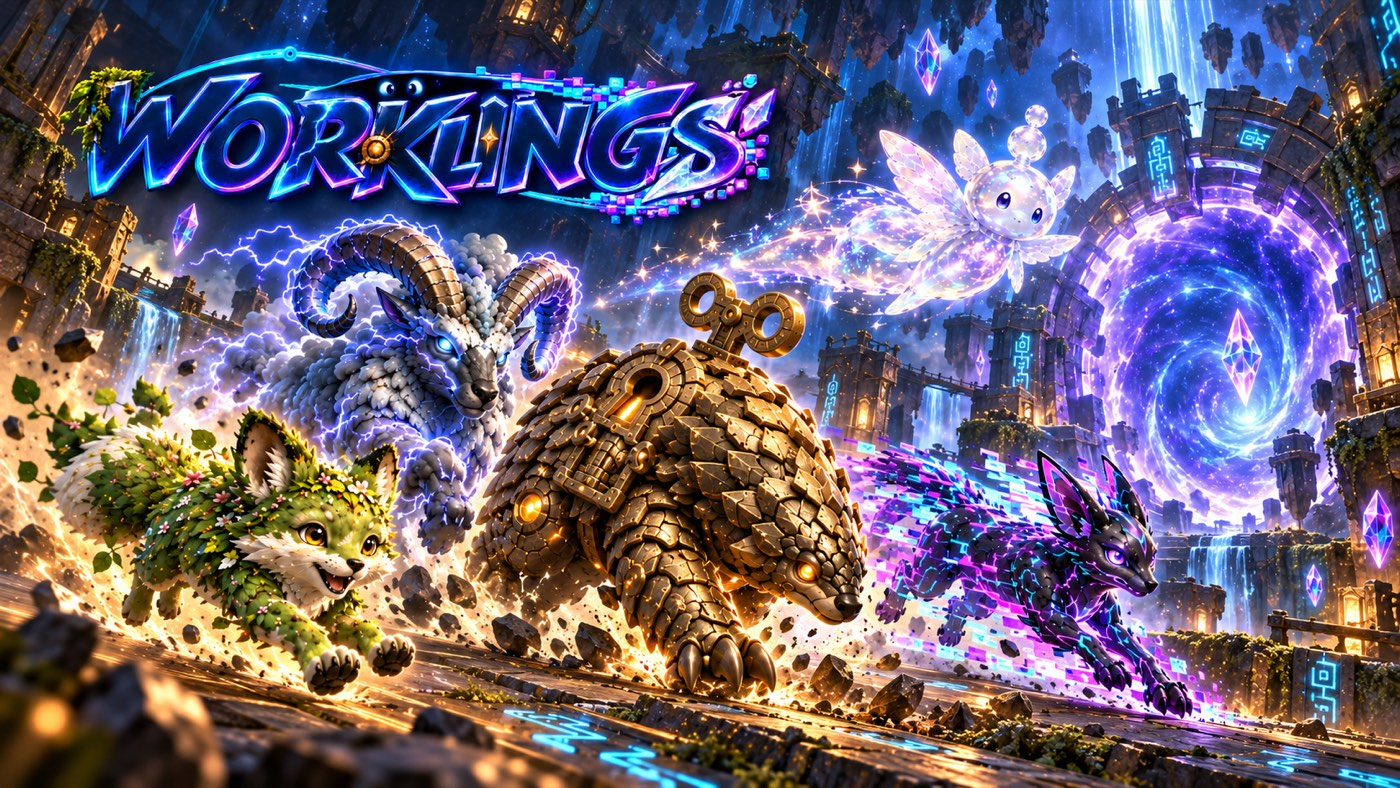
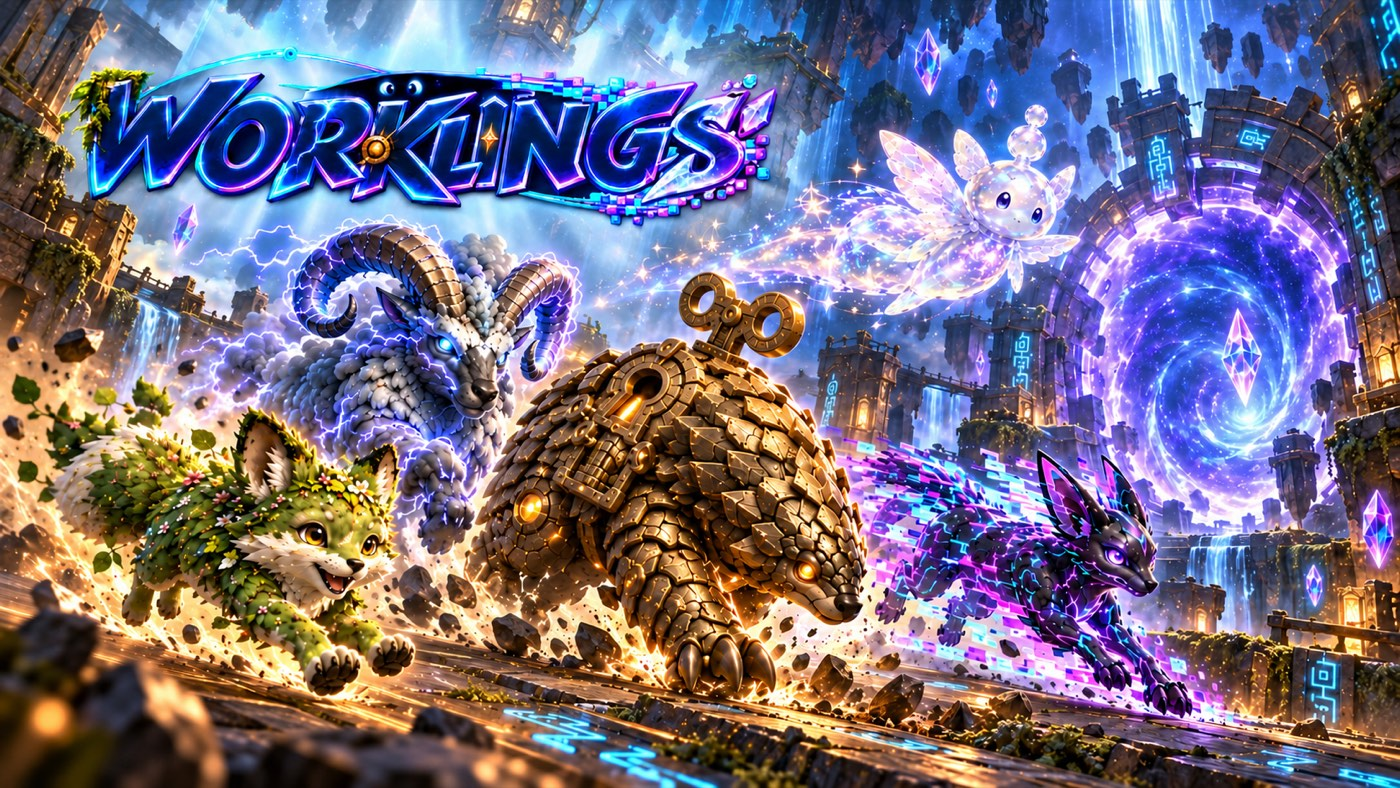
Say plainly that a download needs nothing but macOS

diff --git a/docs/changelog.md b/docs/changelog.md
@@ -1,5 +1,7 @@
 # Changelog
 
+- **2026-09-14 > README.md, assets/worklings-poster.jpg > the README stops implying a tester needs Godot and a .NET SDK > The build-from-source prerequisites sat under a heading called **Requirements**, which reads as the requirements to *use* Worklings — and Godot 4.7 plus the .NET 8 SDK is an alarming thing to ask of someone who wanted to download a pet. Nothing was wrong under it; the heading was. It is now *Requirements to build from source*, and it opens by saying what the download actually needs: macOS 14, and nothing else. The engine and the runtime ship **inside** the bundle — that is most of the 87 MB — so there is nothing to install and nothing to configure. The same point is repeated at the download section, where a tester actually lands. Also: the README hero swaps to the second horizontal poster, which puts contrast behind the wordmark so it reads instead of dissolving into the sky; the packaging example and the current-release line move to alpha.12; and Nikhil's note that the family art is stale relative to the cover image.**
+
 - **2026-09-14 > godot/worklings/assets/app-icon.png, export_presets.cfg, scripts/godot-export, README.md, assets/worklings-poster.jpg, .gitignore, docs/process/distribution.md > the brand gets its W, and the bundle stops shipping an Intel copy of itself > **The app icon is now the wordmark's own letterform** rather than the crest from a day earlier — the same crystal facets, the same electric-blue-to-magenta run, the moss on the left riser, the gold clockwork gear at the crossing, and the eyes over the top. The crest was a good emblem for a different game; this one is recognisably the thing on the poster. The README hero becomes the horizontal key art, with the four families running out of a ruined arcane city. **And the shipped bundle stops being universal.** alpha.11 went out carrying a fat engine binary and a 76 MB Intel .NET runtime that no Apple Silicon Mac ever loads, because the doc claimed dropping Intel was one config line and done — it was neither. `binary_format/architecture="arm64"` fails outright: the .NET export templates ship one universal binary rather than per-arch ones, so the export dies naming a template file the archive never contained. The preset stays `universal` and `scripts/godot-export` strips the finished bundle instead, before signing: `lipo -thin arm64` on the engine binary, the x86_64 runtime deleted, and the Info.plist keys advertising x86_64 removed so the bundle does not claim an architecture it no longer carries. **159 MB of 350 MB**, and the DMG's `arm64` in its name is finally true. Full-resolution posters and brand source art are gitignored; the README uses a 465 KB derivative, and the icon that ships is committed at its point of use.**
 
 - **2026-09-14 > release > v0.1.0-alpha.11 (build 11) > The first public build from the Godot engine, and the first release in which the Swift app is not what ships. Tagged on the merge of #56 and published as a prerelease with a 156 MB Apple Silicon DMG and its checksum. It carries the whole port: the Cache Warren rebuilt around a round the player decides — Strike, Brace or Signature each round, the foe declaring its next move as an icon over its head before you commit, the Workling acting first, one countdown per move, and a HUD with the run state and a beat clock that names the turn — live rigged 3D characters with real idle, walk, attack, damage and death animations standing on the floor rather than through it, a per-creature signature effect layer, the desktop pet rebuilt on the same engine against the same save file, the prep/loadout screen, the end-of-delve pip loop fixed, and the app's first icon. Two things testers need told: the bundle identifier is still `com.bingeljell.worklings.godot`, so it installs **alongside** alpha.10 rather than over it while sharing one save file; and the download is 156 MB against alpha.10's 5 MB because the engine and the .NET runtime ship inside the app — the game itself is 16 MB of it.**

diff --git a/README.md b/README.md
@@ -39,6 +39,7 @@ The project is macOS-first and built in **Godot 4 with C#**. It began as a Swift
 
 ## Character direction
 
+The Art here is now stale and we'll be updating it to match the actual game and the cover image. But the concept remains. 
 Worklings come from five creature families across five thematic lanes — nature, elements, machinery, energy, and cosmos. Three have art today (below); **Glitchkin** (energy) and **Bloomglass** (cosmos) are the two newest and still design-stage. The full cosmetic critter catalogue lives in the [race & creature roster](docs/design/worklings_race_creature_roster.md).
 
 | Wildkin | Elemental | Relicborn |
@@ -114,7 +115,14 @@ Reading the intent is the whole game. A **Heavy slam** is guaranteed to hit and 
 
 ## Use from the repository
 
-### Requirements
+### Requirements to build from source
+
+**None of this is needed to run a downloaded release** — see [Beta application
+download](#beta-application-download) below. The Godot engine and the .NET
+runtime ship *inside* the app bundle, which is most of why it weighs 87 MB.
+A tester needs macOS 14 and nothing else.
+
+To work on the code, though:
 
 - macOS 14 or newer;
 - [Godot 4.7+ **.NET/mono** build](https://godotengine.org/download) — the plain build cannot run C#;
@@ -170,15 +178,15 @@ WORKLINGS_SAVE=/tmp/pet.json WORKLINGS_BEAT_OUT=/tmp/beats \
 Package a release:
 
 ```bash
-scripts/godot-export --version 0.1.0-alpha.11
-scripts/build_dmg --version 0.1.0-alpha.11
+scripts/godot-export --version 0.1.0-alpha.12
+scripts/build_dmg --version 0.1.0-alpha.12
 ```
 
 ## Beta application download
 
-Experimental DMG builds are published through [GitHub Releases](https://github.com/Bingeljell/worklings/releases) when a tested version is available. The initial packaging target is Apple Silicon (`arm64`) running macOS 14 or newer.
+Experimental DMG builds are published through [GitHub Releases](https://github.com/Bingeljell/worklings/releases) when a tested version is available. The packaging target is Apple Silicon (`arm64`) running macOS 14 or newer. **That is the whole requirement** — the app carries its own engine and runtime, so there is no Godot install, no .NET install, and nothing to configure.
 
-`v0.1.0-alpha.11` is **the first release built on Godot** rather than the Swift app: a move every round, foes that declare their intent, and live 3D bodies. [`v0.1.0-alpha.10`](https://github.com/Bingeljell/worklings/releases/tag/v0.1.0-alpha.10) was the last Swift build — the delve made properly playable, with gear you keep and a way out of a cleared Warren. Earlier alphas remain on the releases page; `v0.1.0-alpha.1` predates the rename and still downloads Build Companion.
+`v0.1.0-alpha.12` is the current release: the app's own icon, and a download roughly half the size of the one before it after the Intel engine and runtime were stripped out of the bundle. [`v0.1.0-alpha.11`](https://github.com/Bingeljell/worklings/releases/tag/v0.1.0-alpha.11) was **the first release built on Godot** rather than the Swift app: a move every round, foes that declare their intent, and live 3D bodies. [`v0.1.0-alpha.10`](https://github.com/Bingeljell/worklings/releases/tag/v0.1.0-alpha.10) was the last Swift build — the delve made properly playable, with gear you keep and a way out of a cleared Warren. Earlier alphas remain on the releases page; `v0.1.0-alpha.1` predates the rename and still downloads Build Companion.
 
 To install a packaged alpha:
 
